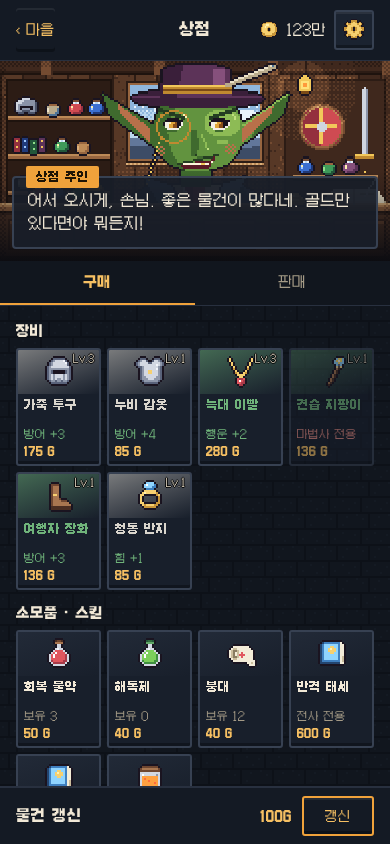
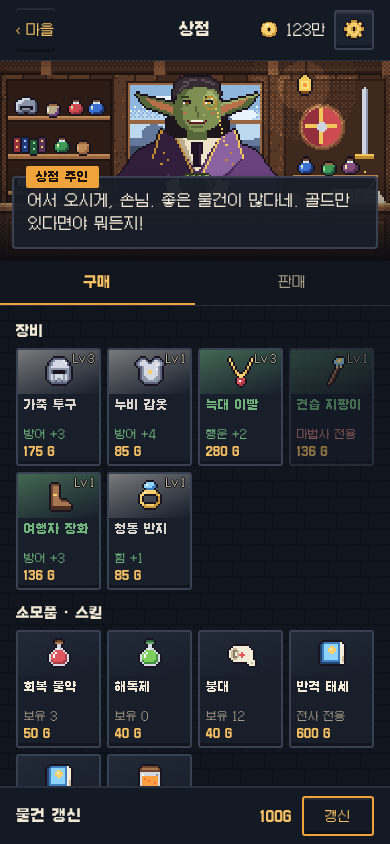
v3.9 초안 3: 상점 상인을 원래 일러스트 생김새·비율로 (작은 머리·넓은 어깨·뒤로 넘긴 머리·외알 안경·자두색 코트·깍지 낀 손)
Claude-Session: https://claude.ai/code/session_01NVTWdp7RkBKC2ZimueaGYX

Changed region(s): [[0.2462, 0.0616, 0.7385, 0.2156], [0.1231, 0.1232, 0.1538, 0.154]]

diff --git a/web/art/illust.px.js b/web/art/illust.px.js
@@ -6,11 +6,12 @@
 pal({
   k: "#1a1420", K: "#2b1c22",                                         // 테두리
   0: "#1e130e", 1: "#2c1c15", 2: "#3f281d", 3: "#573826", 4: "#744b31", 5: "#97653f", 6: "#bd8a57", 7: "#dcb07a", // 나무
-  G: "#243d22", f: "#3f6a2e", e: "#62933f", h: "#8dbb55", H: "#bfe07e", // 고블린 피부
+  G: "#2e3a1e", f: "#56673a", e: "#7d8f52", h: "#a3b36e", H: "#c8d394", // 고블린 피부 (올리브)
+  d: "#1d171b", D: "#352b31", C: "#5d4f57",                           // 머리카락 (뒤로 넘긴 검은 머리)
   r: "#b8704a",                                                       // 볼·귀 안쪽
   w: "#f4f1e8", i: "#e0a53a", I: "#8a4f1c",                           // 눈
   m: "#5a1a26", W: "#fff6dc",                                         // 입
-  n: "#141c2c", N: "#22324a", b: "#34506e", B: "#4f7396", c: "#7aa0bf", // 코트 (짙은 청색)
+  n: "#1c1224", N: "#311e3d", b: "#4a2c58", B: "#68427c", c: "#8a62a0", // 코트 (자두색)
   S: "#b9ab8c", s: "#ece2c8",                                         // 셔츠·종이
   Q: "#5c1a2a", R: "#94303e", q: "#cf4b52", x: "#f28a7c",              // 빨강
   Y: "#7a4a16", y: "#c08a30", z: "#f2c85a", Z: "#fff1b0",             // 금
@@ -21,89 +22,81 @@ pal({
   O: "#203a7a", v: "#3b6fd0", V: "#9cc8ff",                           // 파란 물약
   F: "#ff9a3c", L: "#ffe27a",                                         // 불꽃
 })
-ramps("k0123456", "kGfehH", "knNbBc", "kQRqx", "kYyzZ", "kPpo", "kUuAal", "kJMj", "kTtg", "kOvV", "kSs")
+ramps("k0123456", "kGfehH", "kdDC", "knNbBc", "kQRqx", "kYyzZ", "kPpo", "kUuAal", "kJMj", "kTtg", "kOvV", "kSs")
 
 // 빛·그늘: 정한 색만 한 단계씩 (테두리 검정은 그대로)
 const LIT = { 0: "1", 1: "2", 2: "3", 3: "4", 4: "5", 5: "6", 6: "7", N: "b", b: "B", B: "c", f: "e", e: "h", p: "o", P: "p", y: "z", J: "M", M: "j" }
 const DIM = { 1: "0", 2: "1", 3: "2", 4: "3", 5: "4", 6: "5", 7: "6", b: "N", B: "b", c: "B", e: "f", h: "e", S: "B", s: "S", u: "U", A: "u", a: "A" }
 
 // ── 상인 (가슴 위 반신, 72×64) ──
-sprite("_eye", {}, `
-  ..kkkkkk..
-  .kkkkkkkkk
-  kwwZiiIkkw
-  kwwiiIIkkw
-  .wwiiIIkw.
-  ..wwwwww..
-  ...ffff...`)
-
-sprite("_merchant", { w: 95, h: 85, outline: "k" }, (c) => {
-  // 코트: 어깨 → 가슴, 왼쪽(그늘)은 어둡게
-  c.poly([2, 85, 10, 68, 25, 59, 70, 59, 85, 68, 92, 85], "b")
-  c.poly([2, 85, 10, 68, 25, 59, 35, 59, 29, 85], "N")
-  c.poly([70, 59, 85, 68, 92, 85, 78, 85, 75, 68], "B")
-  // 셔츠 V 깃 + 붉은 스카프
-  c.poly([35, 59, 60, 59, 48, 80], "s")
-  c.poly([35, 59, 40, 59, 48, 80], "S")
-  c.poly([42, 60, 52, 60, 50, 74, 45, 74], "q")
-  c.poly([42, 60, 46, 60, 46, 74, 45, 74], "R")
-  c.px(49, 62, "x")
-  // 라펠 (높은 깃)
-  c.poly([22, 55, 35, 59, 48, 80, 38, 85], "B")
-  c.poly([72, 55, 60, 59, 48, 80, 58, 85], "c")
-  c.line(35, 59, 48, 80, "n"); c.line(60, 59, 48, 80, "n")
-  c.px(39, 75, "z"); c.px(38, 81, "z")
-  // 목 (짧게, 턱 그림자)
-  c.rect(40, 51, 15, 9, "f"); c.hline(40, 51, 15, "G")
-  // 귀 (길고 위로 뾰족) — 위쪽 가장자리만 밝게
-  c.poly([28, 30, 1, 14, 5, 25, 28, 41], "f")
-  c.poly([68, 30, 94, 14, 90, 25, 68, 41], "e")
-  c.poly([25, 31, 9, 19, 10, 24, 25, 38], "r")
-  c.poly([70, 31, 86, 19, 85, 24, 70, 38], "r")
-  c.line(69, 30, 92, 14, "h")
-  // 머리 · 볼 · 뾰족한 턱
-  c.ellipse(48, 31, 21, 20, "e")
-  c.ellipse(48, 39, 20, 12, "e")
-  c.poly([40, 49, 55, 49, 50, 56, 45, 56], "e")
-  // 명암 (셀 음영): 왼쪽 그늘 · 모자 챙 그늘 · 턱 밑 · 오른쪽 이마 하이라이트
-  // 빛은 오른쪽 위: 머리를 오른쪽으로 민 타원 밖 = 왼쪽 초승달 그늘
-  c.recolor({ e: "f" }, (x, y) => ((x - 54) / 21) ** 2 + ((y - 33) / 22) ** 2 > 1, 1)
-  c.recolor({ e: "f" }, (x, y) => y < 21, 1)
-  c.recolor({ e: "f" }, (x, y) => y > 52, 1)
-  c.recolor({ e: "h" }, (x, y) => ((x - 60) / 9) ** 2 + ((y - 28) / 7) ** 2 < 1, 1)
-  c.px(65, 24, "H"); c.px(66, 25, "H"); c.px(66, 26, "H")
-  // 모자: 챙 → 몸통 → 띠 → 깃털
-  c.ellipse(48, 16, 32, 4, "P")
-  c.hline(16, 15, 64, "p")
-  c.poly([30, 16, 31, 2, 39, 0, 56, 0, 64, 2, 65, 16], "p")
-  c.poly([30, 16, 31, 2, 39, 0, 41, 0, 38, 16], "P")
-  c.recolor({ p: "o" }, [56, 2, 6, 11], 1)
-  c.rect(31, 10, 34, 4, "y"); c.hline(31, 10, 34, "z"); c.hline(31, 12, 34, "Y")
-  c.line(62, 9, 85, 0, "S", 2); c.line(64, 8, 84, 0, "s")
-  // 눈썹 (치켜올라간)
-  c.line(29, 21, 41, 25, "G"); c.line(29, 22, 41, 26, "G")
-  c.line(54, 25, 66, 21, "G"); c.line(54, 26, 66, 22, "G")
-  // 눈 + 외알 안경 (사슬은 코트로 늘어짐)
-  c.stamp("_eye", 31, 26); c.stamp("_eye", 54, 26)
-  c.ring(36, 30, 8, "y"); c.px(41, 24, "Z"); c.px(42, 25, "Z")
-  for (let k = 0; k < 11; k++) c.px(29 - Math.round(k * 0.6), 38 + k * 2, "z")
-  // 코: 매부리 + 둥근 코끝 (오른쪽 빛, 아래 그늘)
-  c.poly([46, 32, 49, 32, 53, 40, 49, 41], "e")
-  c.circ(51, 42, 3, "e")
-  c.line(46, 33, 48, 41, "f"); c.hline(48, 45, 6, "f")
-  c.px(47, 44, "G"); c.px(52, 45, "G")
-  c.line(50, 34, 52, 39, "h"); c.px(53, 41, "H"); c.px(52, 40, "h")
-  c.recolor({ e: "f" }, [45, 32, 48, 32, 49, 39, 48, 45, 45, 45])
-  c.recolor({ e: "h" }, [58, 37, 5, 2])
-  // 입: 한쪽만 올라간 웃음 (이빨 · 금니)
-  c.poly([39, 48, 55, 47, 58, 44, 54, 51, 42, 51], "m")
-  c.hline(41, 48, 13, "W"); c.px(55, 47, "W"); c.px(50, 48, "z"); c.px(51, 48, "z")
-  c.line(38, 48, 58, 44, "G")
-  c.hline(43, 52, 9, "f")
+sprite("_merchant", { w: 84, h: 80, outline: "k" }, (c) => {
+  // 뒤로 넘겨 어깨까지 내려온 머리 (머리 뒤)
+  c.poly([29, 14, 55, 14, 58, 33, 52, 36, 32, 36, 26, 33], "d")
+  // 코트 몸통: 넓은 어깨, 왼쪽 그늘 · 오른쪽 빛
+  c.poly([1, 80, 3, 52, 12, 40, 27, 33, 57, 33, 72, 40, 81, 52, 83, 80], "b")
+  c.poly([1, 80, 3, 52, 12, 40, 27, 33, 31, 33, 20, 80], "N")
+  c.poly([57, 33, 72, 40, 81, 52, 83, 80, 70, 80, 66, 46], "B")
+  c.line(73, 42, 81, 56, "c")
+  // 셔츠 깃 · 넥타이
+  c.poly([31, 33, 53, 33, 42, 50], "s"); c.poly([31, 33, 35, 33, 42, 50], "S")
+  c.poly([39, 35, 45, 35, 44, 47, 40, 47], "n"); c.line(43, 36, 43, 45, "N")
+  // 높은 깃(라펠) + 금실 테두리 · 수
+  c.poly([24, 29, 31, 33, 41, 52, 33, 56, 20, 42], "N")
+  c.poly([60, 29, 53, 33, 43, 52, 51, 56, 64, 42], "c")
+  c.line(31, 33, 41, 52, "y"); c.line(53, 33, 43, 52, "z")
+  c.line(24, 29, 20, 42, "y"); c.line(60, 29, 64, 42, "z")
+  for (const [x, y] of [[25, 40], [27, 43], [24, 45], [58, 40], [56, 43], [59, 45]]) c.px(x, y, "y")
+  // 앞섶: 금실 두 줄 + 단추
+  c.vline(40, 52, 28, "y"); c.vline(44, 52, 28, "z"); c.vline(42, 52, 28, "n")
+  // 소매 → 흰 주름 소매 끝 → 깍지 낀 손 (가슴 앞)
+  c.poly([3, 52, 12, 40, 21, 44, 31, 57, 27, 65, 12, 70], "N")
+  c.poly([81, 52, 72, 40, 63, 44, 53, 57, 57, 65, 72, 70], "B")
+  c.poly([26, 55, 33, 52, 36, 61, 30, 66], "s"); c.px(27, 58, "S"); c.px(29, 63, "S"); c.px(31, 60, "S")
+  c.poly([58, 55, 51, 52, 48, 61, 54, 66], "s"); c.px(56, 58, "S"); c.px(53, 63, "S")
+  c.stamp("_hands", 33, 50)
+  // 목
+  c.rect(37, 27, 10, 7, "f"); c.hline(37, 27, 10, "G")
+  // 귀: 옆으로 뻗은 뾰족귀 (조금 위로)
+  c.poly([32, 16, 12, 11, 16, 17, 32, 23], "f"); c.poly([30, 17, 17, 13, 19, 16, 30, 21], "r")
+  c.poly([52, 16, 72, 11, 68, 17, 52, 23], "e"); c.poly([54, 17, 67, 13, 65, 16, 54, 21], "r")
+  c.line(53, 16, 71, 11, "h")
+  // 얼굴: 둥근 볼 (작은 머리)
+  c.ellipse(42, 17, 11, 12, "e")
+  c.ellipse(42, 21, 11, 8, "e")
+  c.recolor({ e: "f" }, (x, y) => ((x - 45) / 11) ** 2 + ((y - 18) / 13) ** 2 > 1, 1)
+  c.recolor({ e: "h" }, [48, 13, 3], 1)
+  // 앞머리: 뒤로 넘긴 머리 + 윤기
+  c.poly([30, 13, 31, 6, 36, 3, 48, 3, 53, 6, 54, 13, 51, 9, 44, 8, 36, 9, 33, 11], "D")
+  c.line(35, 5, 41, 4, "C"); c.line(44, 4, 50, 6, "C"); c.line(33, 9, 37, 6, "C")
+  // 눈썹 · 웃는 눈 (가늘게)
+  c.hline(34, 12, 4, "G"); c.hline(46, 12, 4, "G")
+  c.hline(35, 14, 4, "k"); c.px(35, 15, "w"); c.hline(36, 15, 2, "I"); c.px(38, 15, "k"); c.hline(36, 16, 2, "f")
+  c.hline(46, 14, 4, "k"); c.px(46, 15, "w"); c.hline(47, 15, 2, "i"); c.px(49, 15, "k"); c.hline(47, 16, 2, "e")
+  // 외알 안경 (오른눈) + 사슬
+  c.ring(48, 15, 3, "y"); c.px(49, 13, "Z")
+  for (let k = 0; k < 10; k++) c.px(51 + Math.round(k * 0.5), 18 + k * 2, "z")
+  // 코 (길쭉, 왼쪽 그늘)
+  c.poly([41, 16, 43, 16, 46, 22, 42, 23], "e"); c.line(41, 17, 42, 22, "f"); c.px(45, 21, "h")
+  // 입: 다문 채 웃는 입꼬리
+  c.px(37, 24, "m"); c.hline(38, 25, 8, "m"); c.px(46, 24, "m"); c.hline(39, 24, 6, "W")
+  c.hline(39, 27, 6, "f")
   // 볼
-  c.recolor({ f: "r" }, [29, 42, 2], 0.5)
-  c.recolor({ e: "r", h: "r" }, [64, 41, 2], 0.5)
+  c.hline(35, 20, 2, "r"); c.hline(49, 20, 2, "r")
 })
+
+// 깍지 낀 두 손 (손가락이 엇갈림 · 금반지)
+sprite("_hands", {}, `
+  ...GGGGGGGGGGGG...
+  ..GehGehGehGehhG..
+  .GeeGeeGehGehhhhG.
+  .GfeGeeGeeGeehhhG.
+  GffeeeeeeeeeeehhhG
+  GffzeeeeeeeeeeehhG
+  GfffeeeeeeeeezyhhG
+  .GffeeeeeeeeeeehG.
+  .GfffGeeeeeeGehG..
+  ..GffGeeeeeeGeG...
+  ...GGGGGGGGGGGG...`)
 
 // ── 소품 ──
 sprite("_bottle", { outline: "k" }, `
@@ -212,7 +205,7 @@ scene("illust_shop", { w: 192, h: 96, bg: "#1a1420" },
   layer("lamp2", { light: LIT }, circ(149, 12, 12, "k")),
 
   // 상인 (카운터 뒤)
-  stamp("_merchant", 48, 1),
+  stamp("_merchant", 54, 4),
 
   // 카운터
   rect(0, 70, 192, 4, "5"), hline(0, 70, 192, "7"), hline(0, 71, 192, "6"), hline(0, 74, 192, "1"),

diff --git a/docs/DEV_PLAN.md b/docs/DEV_PLAN.md
@@ -544,5 +544,6 @@
 - 목표: 메인·길드·상점·대장간·수련장·타이틀 일러스트를 claude-pxl로 다시 그려 유닛·물품과 그림체(같은 색표·검은 테두리·납작한 2~3단 명암)를 맞춘다. 기존 그림은 구도·소품 참고용.
 - 규격 (초안 2부터): 192×96(2:1) 장면 = 게임에서 약 2배. 배경은 5~7단 색 단계·점무늬 그러데이션·빛 번짐(깊이), 인물은 가슴 위 반신(높이 약 85칸)·큰 눈·셀 음영·재질별 테두리. 참고 그림(사용자 제공)은 수준만 따르고 모양·색·구성은 새로 만든다(저작권). 물품·유닛은 지금 그림체 유지. 원본 `web/art/illust.px.js` → `bash web/scripts/sprites.sh` → `web/public/illustrations/*.webp`(무손실).
 - 초안 1: 상점 128×64 (유닛 그림체 그대로) → 사용자: 퀄리티를 참고 그림 수준으로.
-- 초안 2: 상점 192×96 — 고블린 상인(자두색 펠트 모자·깃털·외알 안경·금니·청색 코트·붉은 스카프), 뒤 창문(하늘·구름·먼 지붕), 왼쪽 선반(투구·물약·단지·책·동전), 오른쪽 벽(방패·칼·등불·물약 선반), 카운터(물약·동전·장부·깃펜), 창빛·등불빛 점무늬 번짐. 비교 `docs/illust/shop-compare.png`(기존·초안 1·초안 2), 게임 화면 `docs/illust/shop-ingame.png`. 사용자 확인 뒤 나머지 진행.
+- 초안 2: 상점 192×96 — 고블린 상인(펠트 모자·큰 눈) → 사용자: 고블린 유지, 비율은 예전처럼, 생김새는 원래 일러스트(도트 이전)를 따르게.
+- 초안 3: 상인을 원래 일러스트처럼 — 작은 머리·넓은 어깨, 뒤로 넘긴 검은 머리, 올리브 피부, 옆으로 뻗은 귀, 가늘게 웃는 눈, 오른눈 외알 안경, 자두색 금실 코트·흰 주름 소매, 가슴 앞에 깍지 낀 손(금반지). 배경, 뒤 창문(하늘·구름·먼 지붕), 왼쪽 선반(투구·물약·단지·책·동전), 오른쪽 벽(방패·칼·등불·물약 선반), 카운터(물약·동전·장부·깃펜), 창빛·등불빛 점무늬 번짐. 비교 `docs/illust/shop-compare.png`(원래 일러스트·초안 3), 게임 화면 `docs/illust/shop-ingame.png`. 사용자 확인 뒤 나머지 진행.
 - 주의: 상점·길드 화면은 대사 상자가 그림 아래쪽 절반을 가린다 → 얼굴·주요 소품은 위쪽 55% 안에 둔다.
